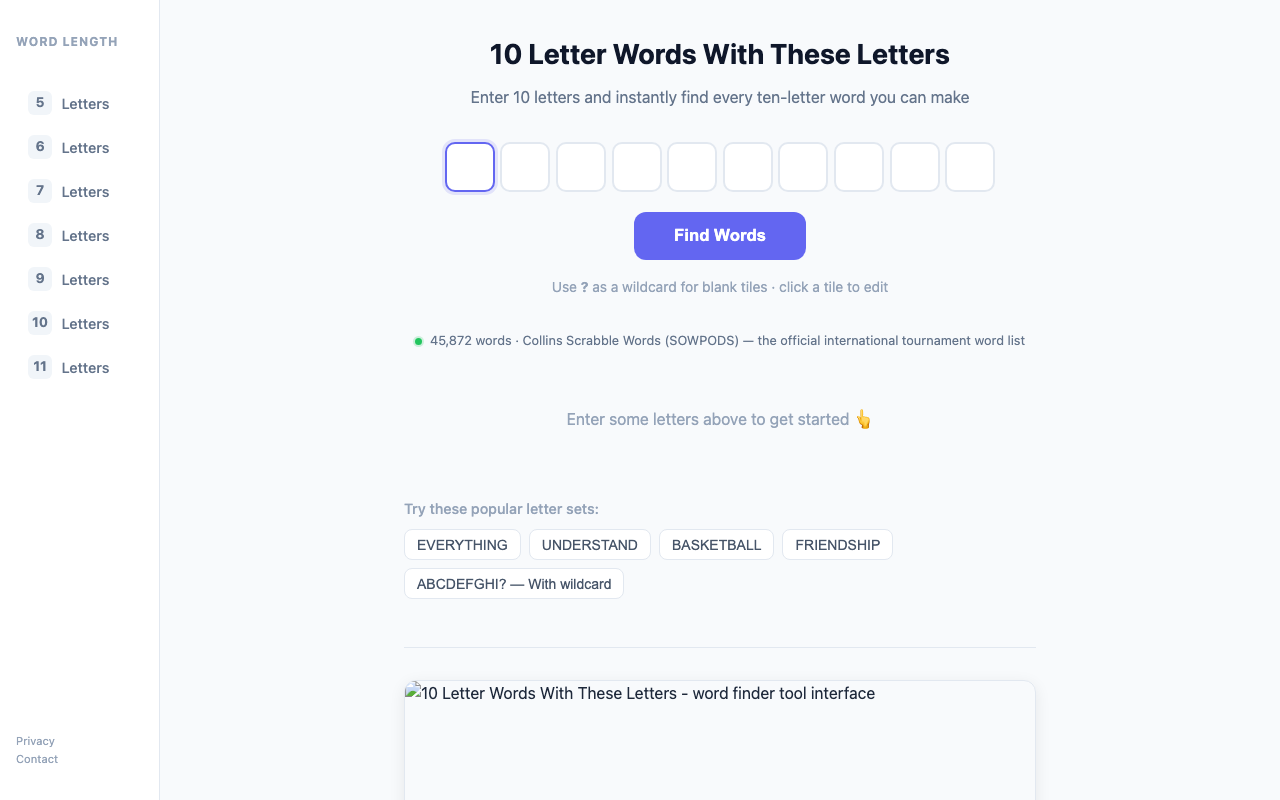
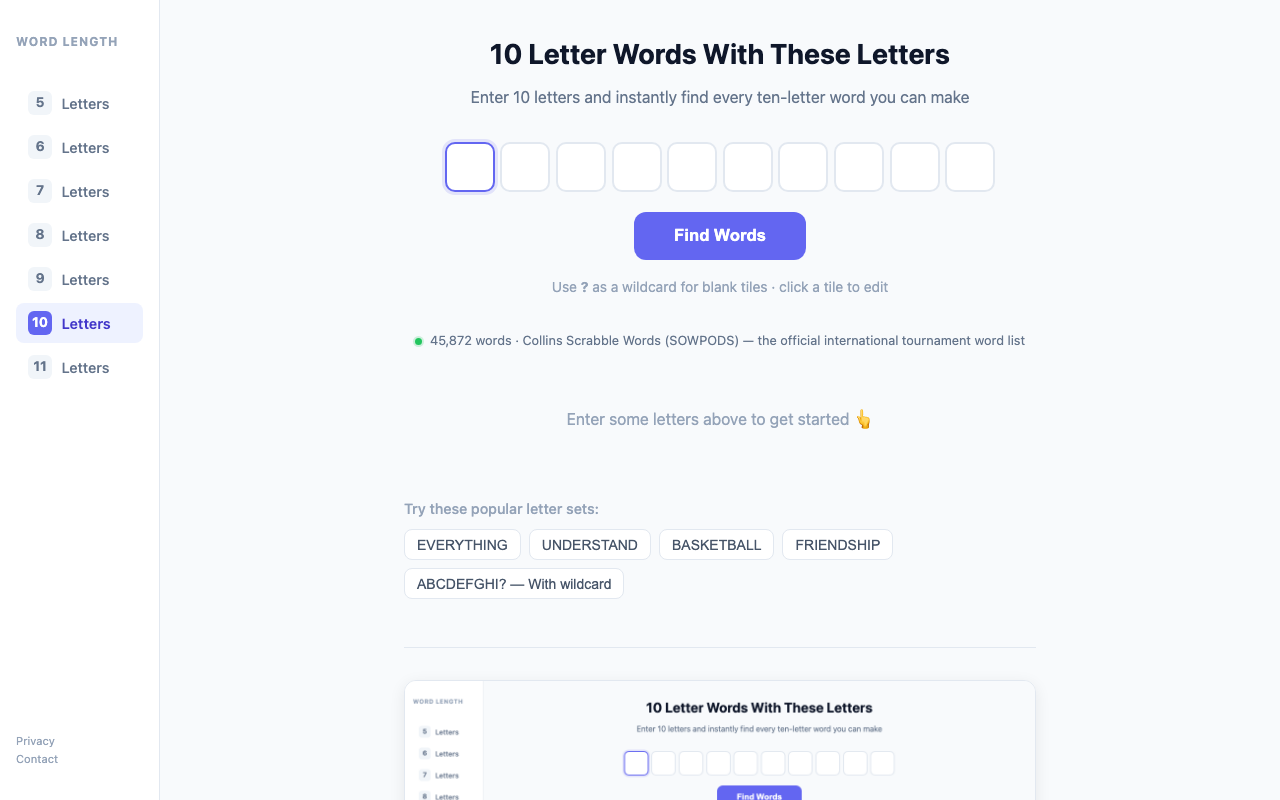
fix: add active class to sidebar nav on 9, 10, 11 letter pages; retake screenshots

diff --git a/9-letter-words-with-these-letters/index.html b/9-letter-words-with-these-letters/index.html
@@ -182,7 +182,7 @@
         <a class="nav-link" href="/6-letter-words-with-these-letters/"><span class="nav-num">6</span> Letters</a>
         <a class="nav-link" href="/"><span class="nav-num">7</span> Letters</a>
         <a class="nav-link" href="/8-letter-words-with-these-letters/"><span class="nav-num">8</span> Letters</a>
-        <a class="nav-link" href="/9-letter-words-with-these-letters/"><span class="nav-num">9</span> Letters</a>
+        <a class="nav-link active" href="/9-letter-words-with-these-letters/"><span class="nav-num">9</span> Letters</a>
         <a class="nav-link" href="/10-letter-words-with-these-letters/"><span class="nav-num">10</span> Letters</a>
         <a class="nav-link" href="/11-letter-words-with-these-letters/"><span class="nav-num">11</span> Letters</a>
       </div>

diff --git a/10-letter-words-with-these-letters/index.html b/10-letter-words-with-these-letters/index.html
@@ -183,7 +183,7 @@
         <a class="nav-link" href="/"><span class="nav-num">7</span> Letters</a>
         <a class="nav-link" href="/8-letter-words-with-these-letters/"><span class="nav-num">8</span> Letters</a>
         <a class="nav-link" href="/9-letter-words-with-these-letters/"><span class="nav-num">9</span> Letters</a>
-        <a class="nav-link" href="/10-letter-words-with-these-letters/"><span class="nav-num">10</span> Letters</a>
+        <a class="nav-link active" href="/10-letter-words-with-these-letters/"><span class="nav-num">10</span> Letters</a>
         <a class="nav-link" href="/11-letter-words-with-these-letters/"><span class="nav-num">11</span> Letters</a>
       </div>
     </nav>

diff --git a/11-letter-words-with-these-letters/index.html b/11-letter-words-with-these-letters/index.html
@@ -184,7 +184,7 @@
         <a class="nav-link" href="/8-letter-words-with-these-letters/"><span class="nav-num">8</span> Letters</a>
         <a class="nav-link" href="/9-letter-words-with-these-letters/"><span class="nav-num">9</span> Letters</a>
         <a class="nav-link" href="/10-letter-words-with-these-letters/"><span class="nav-num">10</span> Letters</a>
-        <a class="nav-link" href="/11-letter-words-with-these-letters/"><span class="nav-num">11</span> Letters</a>
+        <a class="nav-link active" href="/11-letter-words-with-these-letters/"><span class="nav-num">11</span> Letters</a>
       </div>
     </nav>
     <div class="sidebar-footer">
